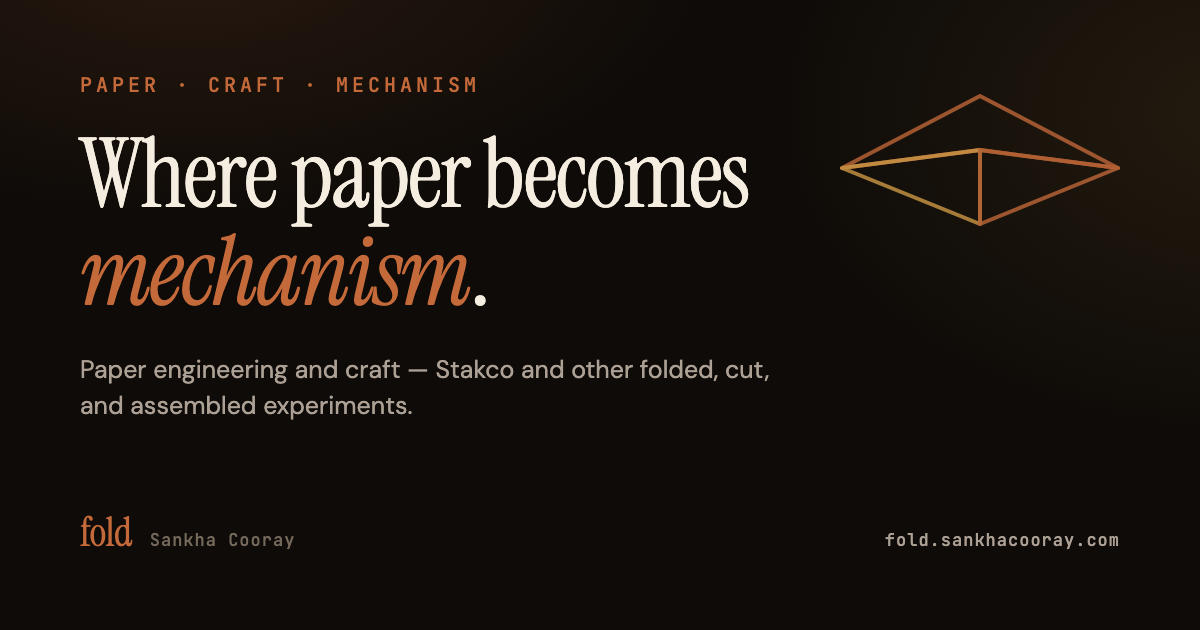
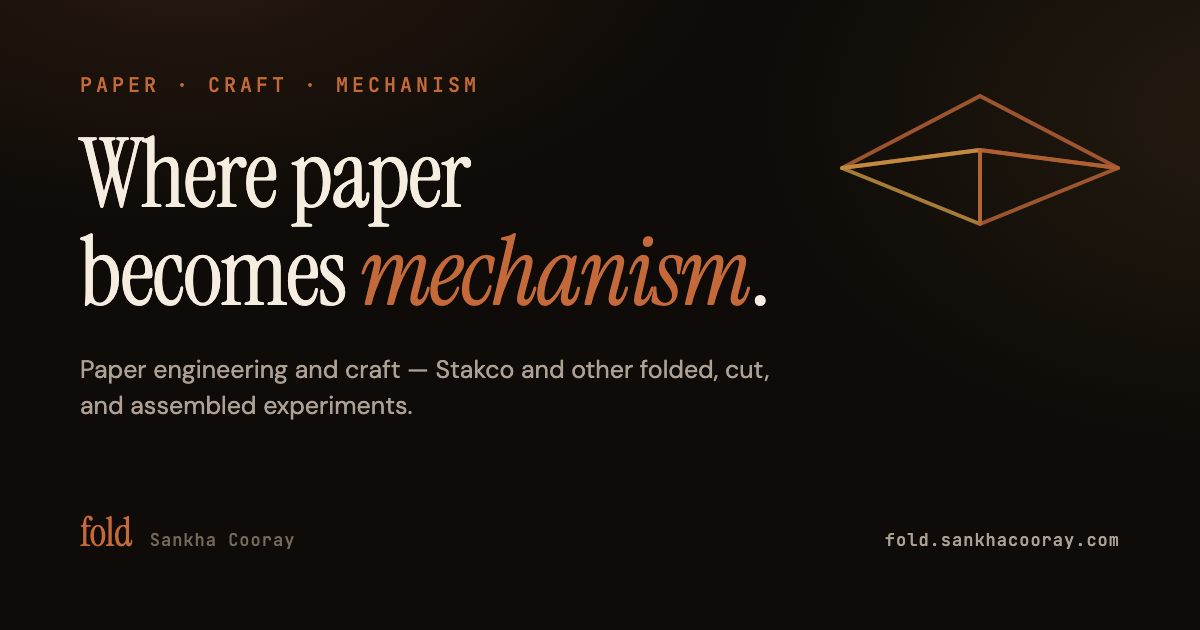
Split OG headline to two lines so it clears the fold graphic
🤖 Generated with [Claude Code](https://claude.com/claude-code)

Changed region(s): [[0.0617, 0.3619, 0.6475, 0.4825], [0.4008, 0.2111, 0.6475, 0.3317]]

diff --git a/assets/og-card.html b/assets/og-card.html
@@ -51,7 +51,7 @@
 
   <div>
     <div class="eyebrow">paper · craft · mechanism</div>
-    <h1>Where paper becomes <em>mechanism</em>.</h1>
+    <h1>Where paper<br>becomes <em>mechanism</em>.</h1>
     <div class="lede">Paper engineering and craft — Stakco and other folded, cut, and assembled experiments.</div>
   </div>
 
